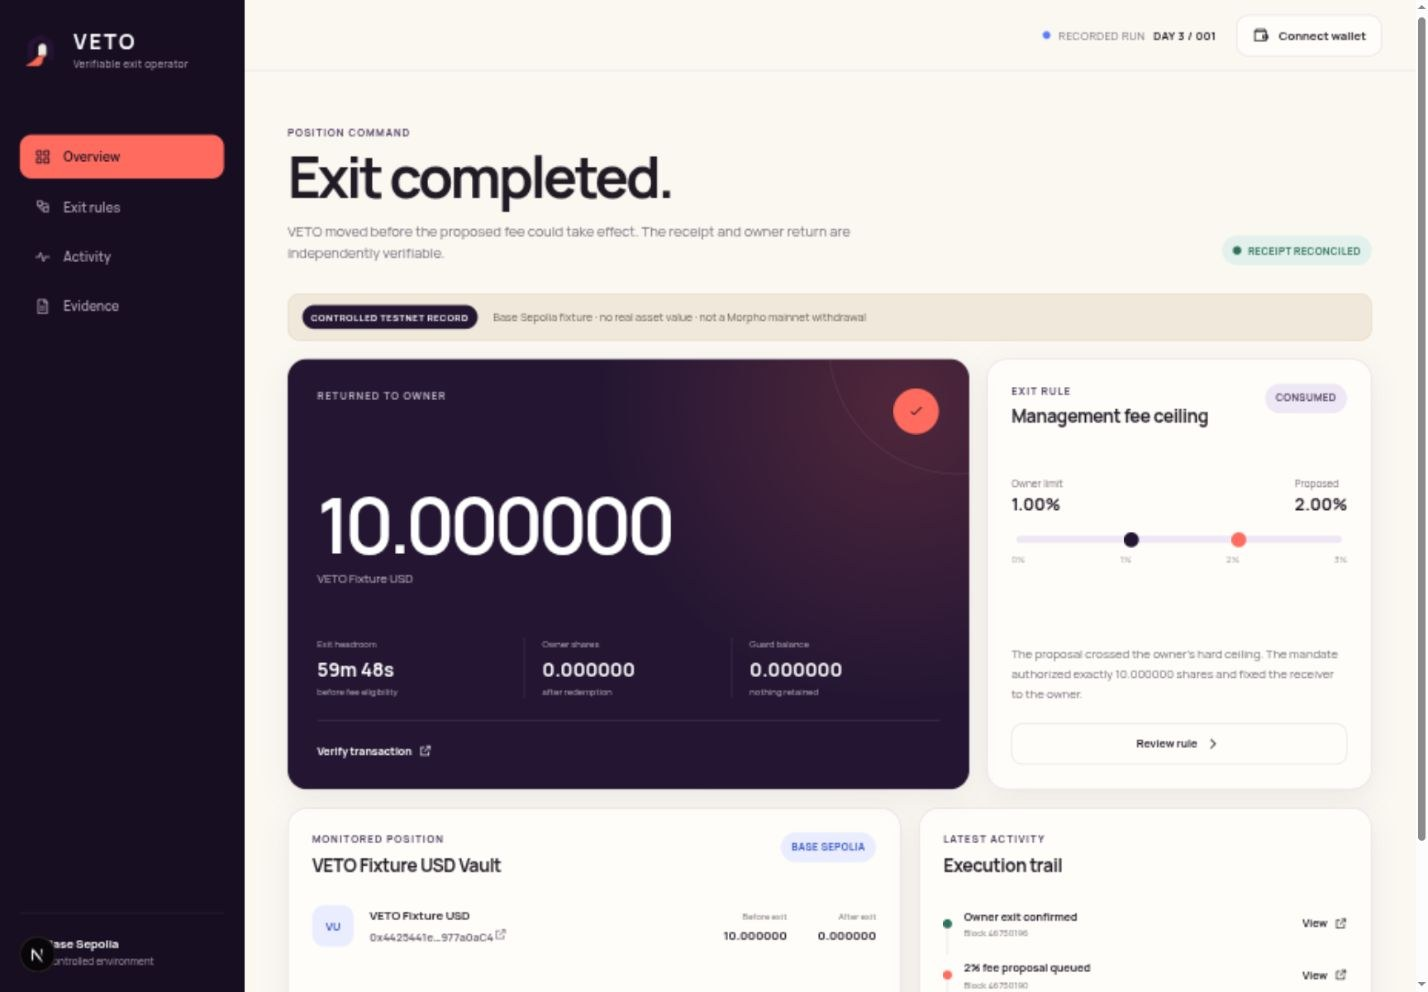
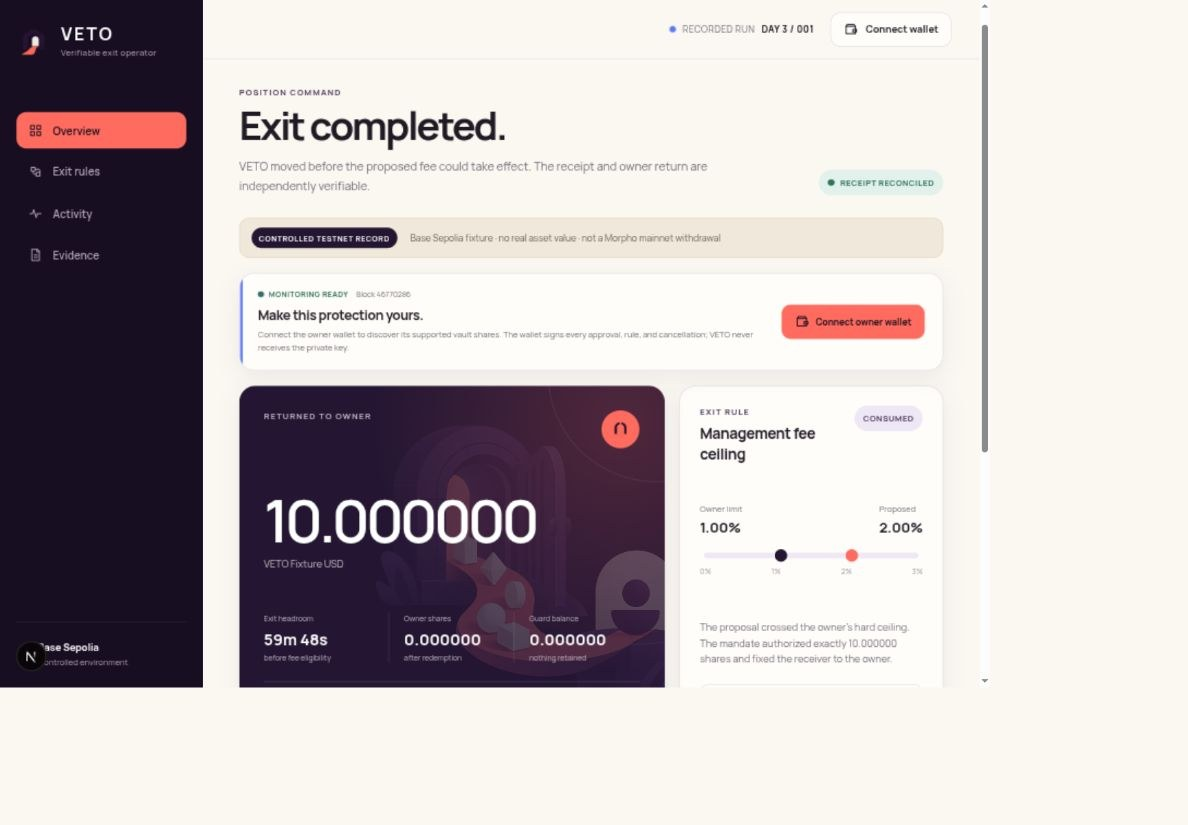
docs(evidence): record functional dashboard layer

diff --git a/docs/DAY-4-GATES.md b/docs/DAY-4-GATES.md
@@ -17,6 +17,11 @@ they have not been removed from `plan.md`.
 | Claims are honest                   | PASS     | Screen says controlled testnet fixture, recorded evidence, no real value, and not Morpho mainnet or real USDC                   |
 | Product navigation                  | PASS     | Overview, Exit rules, Activity, and Evidence views switch in place; rule details open in a keyboard-dismissable drawer          |
 | Desktop and phone rendering         | PASS     | Browser screenshots and narrow-phone overflow/image checks passed                                                               |
+| Live runtime health                 | PASS     | Public chain block, configured contracts, migrations, and PostgreSQL readiness are checked by `/api/runtime`                    |
+| Owner position discovery            | PASS     | Connected addresses are read from Base Sepolia; unsupported or zero-share positions cannot arm a rule                           |
+| Owner signing and cancellation      | PASS     | The browser wallet owns the finite approval, guard arming, and cancellation transactions                                        |
+| Verified rule registration          | PASS     | The server validates successful guard receipts and matching events before writing PostgreSQL state                              |
+| Multi-rule worker discovery         | PASS     | Stored active rules receive independent checkpoints and bounded RPC log scans                                                   |
 | Hackathon demonstration             | DEFERRED | Excluded from this checkpoint by the builder; the plan remains intact                                                           |
 
 ## User flow
@@ -30,8 +35,8 @@ they have not been removed from `plan.md`.
 4. Open **Activity** to follow all nine KeeperHub-submitted transactions from deployment through
    exit.
 5. Open **Evidence** to inspect the receipt and follow the exact transaction to Blockscout.
-6. Optionally connect a browser wallet. The current screen only identifies the address; it does not
-   request a signature or create a transaction.
+6. Optionally connect a browser wallet holding supported vault shares. The screen reads the live
+   position and, after explicit review, requests the finite approval and guard-arm signatures.
 
 ## Verification performed
 
@@ -47,18 +52,24 @@ they have not been removed from `plan.md`.
 - Rule drawer opens and closes with Escape: PASS
 - Unsupported new-rule submission remains disabled: PASS
 - Activity rows linked to public receipts: nine
+- Live Base Sepolia runtime API: PASS
+- PostgreSQL migration/readiness check: PASS
+- Public RPC 10,000-block limit handled with 9,999-block chunks: PASS
+- Worker suite with PostgreSQL and pinned Morpho fork: seven passed, zero skipped
 
-The rendered evidence is static apart from navigation, the rule drawer, editable draft fields, and
-optional wallet connection. It imports the committed Day 3 evidence record and receipt screenshot
-at build time; it does not invent live worker or database status.
+The recorded Day 3 outcome and receipt remain an immutable evidence fixture. Runtime health,
+connected-owner positions, registered rules, and execution state are read from the public chain and
+PostgreSQL; the screen does not represent those live values with fabricated placeholders.
 
 ## Deferred, not removed
 
 - The adverse demonstration cases and four-minute hackathon walkthrough in plan section 13.
-- A live database-backed intent view.
-- Transaction creation, mandate arming, and cancellation from the web screen.
 - A real Glacient delivery claim.
 - Morpho mainnet asset movement or real USDC.
 
-These items remain future work. The current console is a high-fidelity product shell and honest
-evidence reader, not yet a control panel that can move funds.
+Live database state, owner signing, mandate arming, cancellation, and worker discovery are now
+implemented for the controlled Base Sepolia runtime. They are not claimed as a Morpho mainnet
+deployment.
+
+These items remain future work. The current console is a functional controlled-testnet control
+panel and honest evidence reader; it is not presented as a Morpho mainnet or production-money app.

diff --git a/docs/FUNCTIONAL-LAYER.md b/docs/FUNCTIONAL-LAYER.md
@@ -1,0 +1,46 @@
+# VETO functional layer
+
+The product now connects the owner-facing dashboard to the deployed Base Sepolia guard, the public
+chain, PostgreSQL rule storage, and the durable KeeperHub worker. Recorded Day 3 evidence remains
+visibly separate from live connected-owner state.
+
+## Owner flow
+
+1. Connect an EIP-1193 browser wallet. VETO reads the configured supported vault for that address.
+2. The runtime confirms that the factory recognizes the vault and that PostgreSQL monitoring is
+   ready.
+3. Review the exact shares, minimum return, annual management-fee ceiling, expiry, and safety
+   window.
+4. Sign a finite vault-share approval to the deployed guard.
+5. Sign `VetoExitGuard.arm`. The receiver is fixed on-chain to the owner.
+6. VETO fetches the receipt, verifies the guard target and `MandateArmed` event, and only then stores
+   the rule for monitoring.
+7. The worker discovers every active stored rule, scans each rule with an independent reorg-safe
+   checkpoint, and submits an eligible exit through KeeperHub.
+8. The owner may sign `VetoExitGuard.cancel`; VETO verifies the cancellation receipt before marking
+   the rule cancelled.
+
+The browser wallet signs owner authority. The KeeperHub organization account is used only by the
+VETO worker when a verified exit becomes eligible. No KeeperHub key is exposed to the browser.
+
+## Runtime surfaces
+
+- `GET /api/runtime` checks the configured Base Sepolia contracts, current block, migrations, and
+  PostgreSQL readiness.
+- `GET /api/positions?owner=0x…` reads live shares, redeem preview, finite allowance, and active
+  mandate from the chain.
+- `GET /api/rules?owner=0x…` returns verified stored rules joined to durable execution state.
+- `POST /api/rules` registers or cancels only after validating a successful public receipt and the
+  matching guard event.
+
+## Honest boundary
+
+The full functional path is implemented for the deployed controlled Base Sepolia factory and
+guard. The recorded owner has zero remaining shares because the Day 3 exit already redeemed them,
+and the automated browser has no injected wallet, so no new owner-signed transaction was created in
+this checkpoint. A user must connect a wallet that actually holds shares in a vault recognized by
+the configured factory before the two signing actions become available.
+
+The public Base RPC limits log queries to 10,000 blocks. The worker therefore advances each rule in
+9,999-block chunks and stores a separate checkpoint per guard mandate, preventing one owner's scan
+from skipping another owner's proposal.

diff --git a/evidence/day-4/operator-screen.md b/evidence/day-4/operator-screen.md
@@ -9,8 +9,9 @@
 
 **PASS for the expanded Day 4 operator-console checkpoint.** A reader can move between Overview,
 Exit rules, Activity, and Evidence; inspect the bounded rule in a drawer; see all nine public
-transactions; and distinguish recorded evidence from unavailable production actions. The hackathon
-demonstration was deliberately excluded and remains deferred in the plan.
+transactions; and distinguish the recorded outcome from live connected-owner state. Runtime
+health, owner position reads, owner signing, verified PostgreSQL registration, cancellation, and
+worker rule discovery are implemented. The hackathon demonstration remains deferred in the plan.
 
 ## Screenshots
 
@@ -18,8 +19,10 @@ demonstration was deliberately excluded and remains deferred in the plan.
 - Phone: [`operator-screen-mobile.jpg`](./operator-screen-mobile.jpg)
 - Public receipt: [`transaction-proof.jpg`](./transaction-proof.jpg)
 
-The public receipt screenshot is intentionally the unchanged Day 3 exit transaction. Day 4 created
-no new chain transaction. The refreshed product screenshots show the original VETO identity,
+The public receipt screenshot is intentionally the unchanged Day 3 exit transaction. This UI and
+worker checkpoint created no new chain transaction because the recorded owner has zero shares after
+the successful exit and the automated browser has no injected owner wallet. The refreshed product
+screenshots show live runtime readiness, the original VETO identity, branded 2D exit artwork,
 desktop navigation, and narrow-phone layout.
 
 ## Public receipt
@@ -35,7 +38,7 @@ desktop navigation, and narrow-phone layout.
 ## Claim boundary
 
 This evidence proves the recorded result can be followed and checked through the console. The new
-rule drawer is a reviewable draft only: submission is disabled until a supported owner position and
-deployed guard are connected. This does not prove a new Day 4 execution, live Glacient delivery,
-Morpho mainnet withdrawal, real USDC movement, or completion of the deferred hackathon
-demonstration.
+rule drawer creates real owner-signed calls when an injected wallet holds supported shares and the
+monitoring runtime is healthy; otherwise it refuses activation. This does not prove a new Day 4
+execution, live Glacient delivery, Morpho mainnet withdrawal, real USDC movement, or completion of
+the deferred hackathon demonstration.
